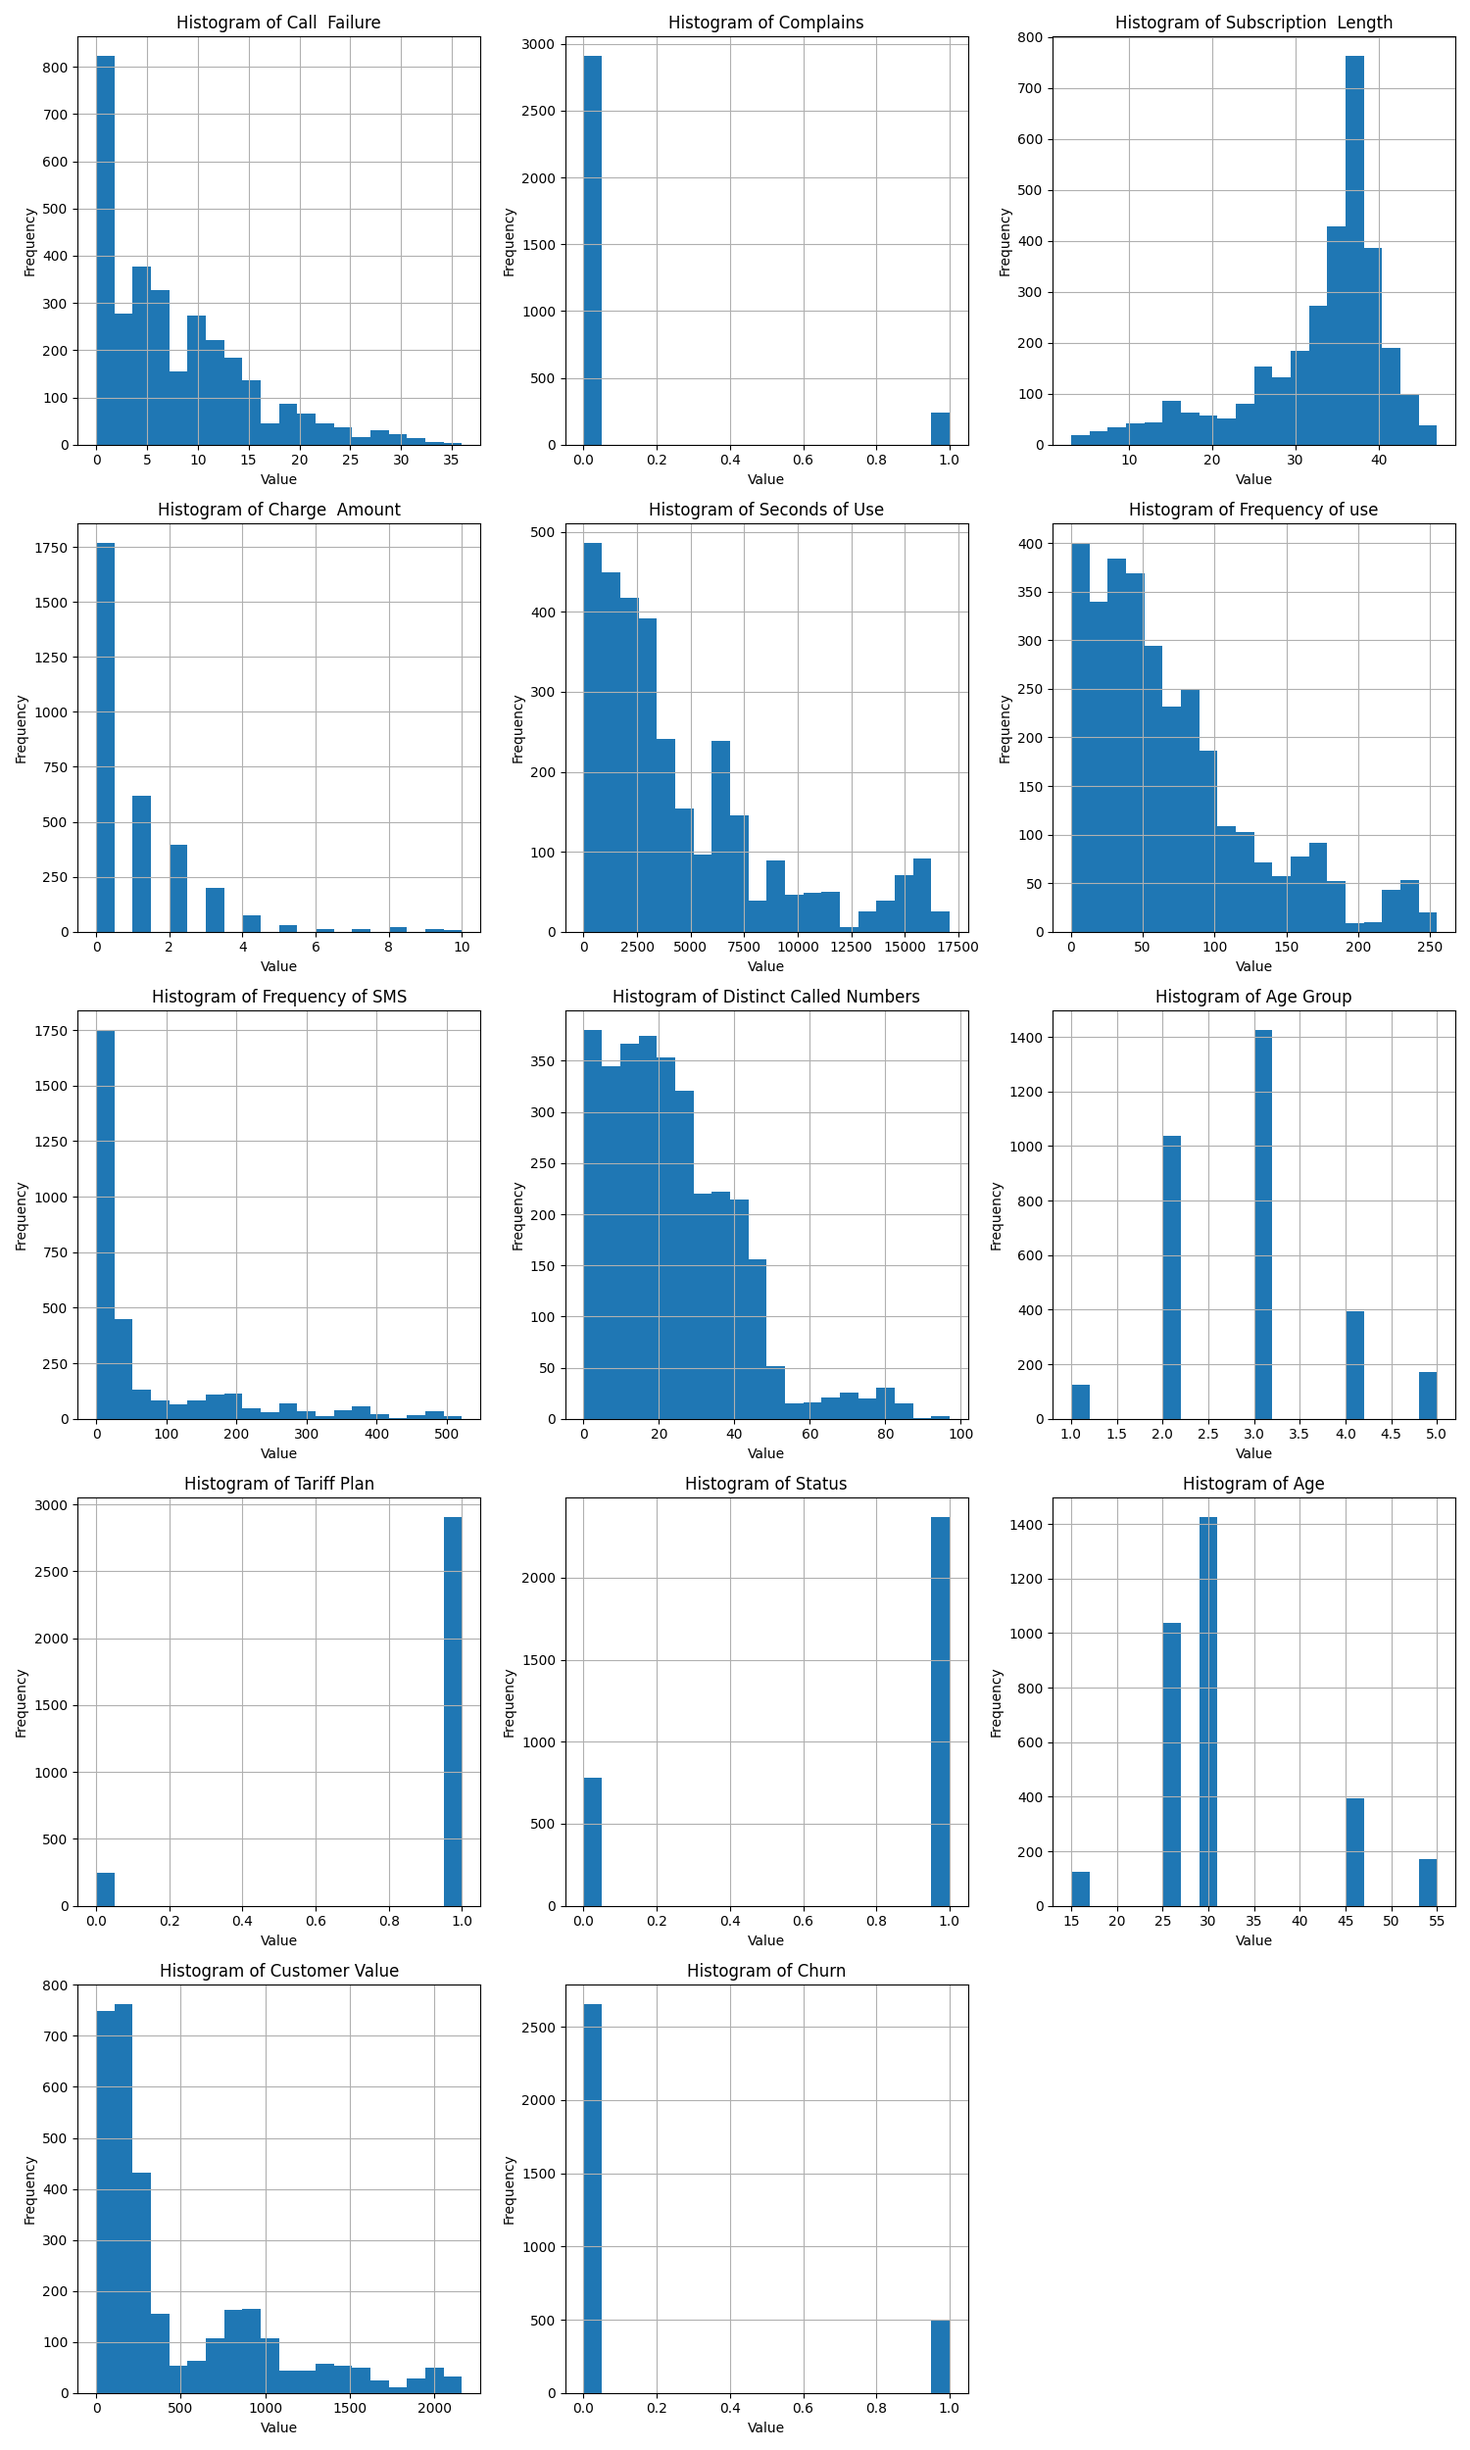
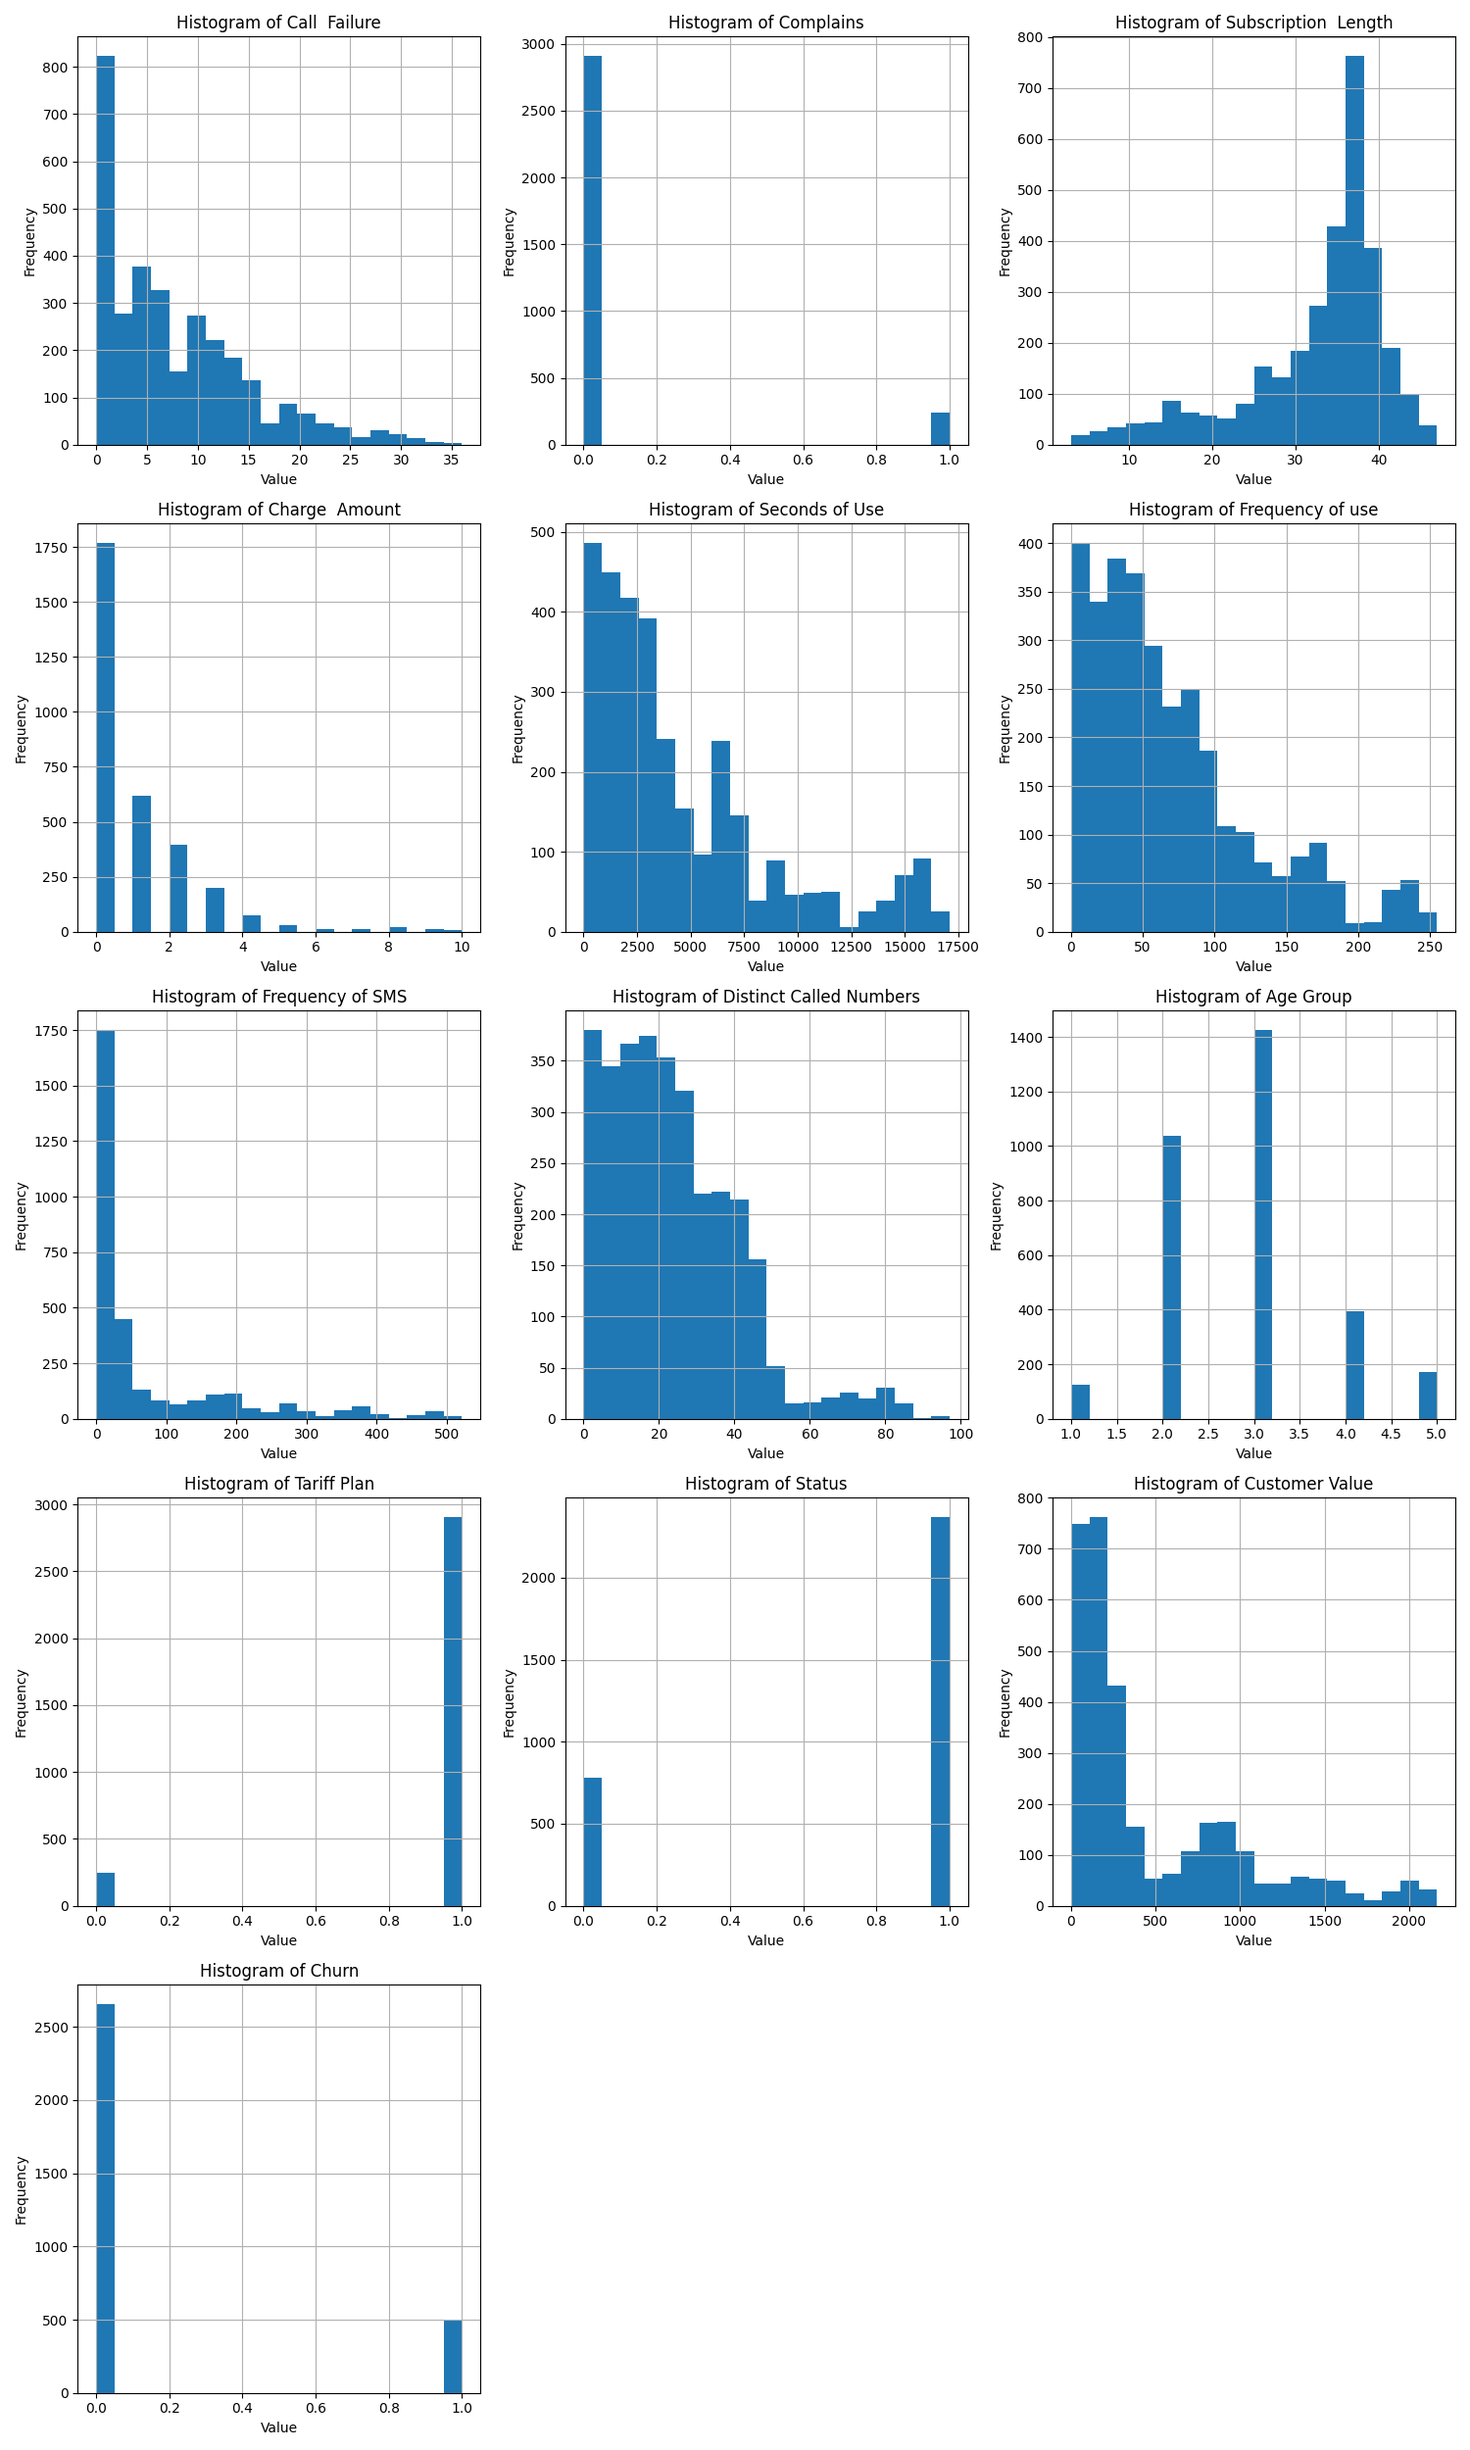
Add simple models and correlation matrix

diff --git a/simple_models.py b/simple_models.py
@@ -1,0 +1,45 @@
+from read_and_preprocess_data import read_and_preprocess_data
+import pandas as pd
+from sklearn.model_selection import train_test_split
+from sklearn.linear_model import LogisticRegression
+from sklearn.naive_bayes import GaussianNB
+from sklearn.tree import DecisionTreeClassifier
+from sklearn.ensemble import RandomForestClassifier
+from sklearn.svm import SVC
+from sklearn.neighbors import KNeighborsClassifier
+from sklearn.metrics import accuracy_score, classification_report, confusion_matrix
+import matplotlib.pyplot as plt
+import seaborn as sns
+
+_, X, y = read_and_preprocess_data()
+X_train, X_test, y_train, y_test = train_test_split(X, y, test_size=0.3, random_state=42)
+
+# Create a single figure and axis matrix for subplots
+fig, axes = plt.subplots(2, 3, figsize=(18, 12))  # Adjust the grid if necessary
+fig.suptitle('Confusion Matrices for Various Models', fontsize=16)
+
+models = [
+    (LogisticRegression(solver='liblinear'), 'Logistic Regression'),
+    (GaussianNB(), 'Naive Bayes'),
+    (DecisionTreeClassifier(random_state=42), 'Decision Tree'),
+    (RandomForestClassifier(n_estimators=100, random_state=42), 'Random Forest'),
+    (SVC(kernel='rbf', C=1.0, random_state=42), 'SVM'),
+    (KNeighborsClassifier(n_neighbors=5), 'KNN')  # KNN with 5 neighbors
+]
+
+for i, (model, title) in enumerate(models):
+    ax = axes[i//3, i%3]  # Determine the position on the grid
+    model.fit(X_train, y_train)
+    y_pred = model.predict(X_test)
+    conf_matrix = confusion_matrix(y_test, y_pred)
+    sns.heatmap(conf_matrix, annot=True, fmt='g', cmap='Blues', cbar=False, ax=ax)
+    ax.set_title(title)
+    ax.set_xlabel('Predicted labels')
+    ax.set_ylabel('True labels')
+    accuracy = accuracy_score(y_test, y_pred)
+    print(f"{title} Accuracy: {accuracy}")
+    print(f"{title} Classification Report:\n{classification_report(y_test, y_pred)}")
+
+# Adjust layout
+plt.tight_layout(rect=[0, 0.03, 1, 0.95])
+plt.savefig('all_confusion_matrices.png', format='png', dpi=300)

diff --git a/read_and_preprocess_data.py b/read_and_preprocess_data.py
@@ -4,6 +4,8 @@ def read_and_preprocess_data():
     # Load the data into a pandas dataframe
     data = pd.read_csv("customer_churn.csv")
 
+    data.drop('Age', axis=1, inplace=True)
+
     # Preprocessing
     # Ensure integer columns are treated as integers, excluding specific binary columns
     integer_columns = [column for column in data.columns if
@@ -13,6 +15,7 @@ def read_and_preprocess_data():
     # Convert 'Tariff Plan' and 'Status' to boolean according to their binary interpretation
     data['Tariff Plan'] = data['Tariff Plan'].map({1: True, 2: False}).astype('bool')
     data['Status'] = data['Status'].map({1: True, 2: False}).astype('bool')
+    data['Complains'] = data['Complains'].map({1: True, 0 : False}).astype('bool')
 
     # Convert 'Churn' to boolean: 1 as True (churn) and 0 as False (non-churn)
     data['Churn'] = data['Churn'].map({1: True, 0: False}).astype('bool')

diff --git a/get_statistics.py b/get_statistics.py
@@ -1,6 +1,7 @@
 from read_and_preprocess_data import read_and_preprocess_data
 import matplotlib.pyplot as plt
 import pandas as pd
+import seaborn as sns
 
 def save_descriptive_statistics(df):
     try:
@@ -74,6 +75,13 @@ def generate_and_save_plots(df):
     plt.close(fig_box)
     print("Box plots saved to 'box_plots.png'.")
 
+    # Generate and save the correlation matrix
+    corr_matrix = df[cols].corr()
+    plt.figure(figsize=(10,8))
+    sns.heatmap(corr_matrix, annot=True, fmt=".2f", cmap="coolwarm", cbar_kws={'label': 'Correlation coefficient'})
+    plt.savefig('correlation_matrix.png')
+    plt.close()
+    print("Correlation matrix saved to 'correlation_matrix.png'.")
 
 # Example usage
 if __name__ == "__main__":
